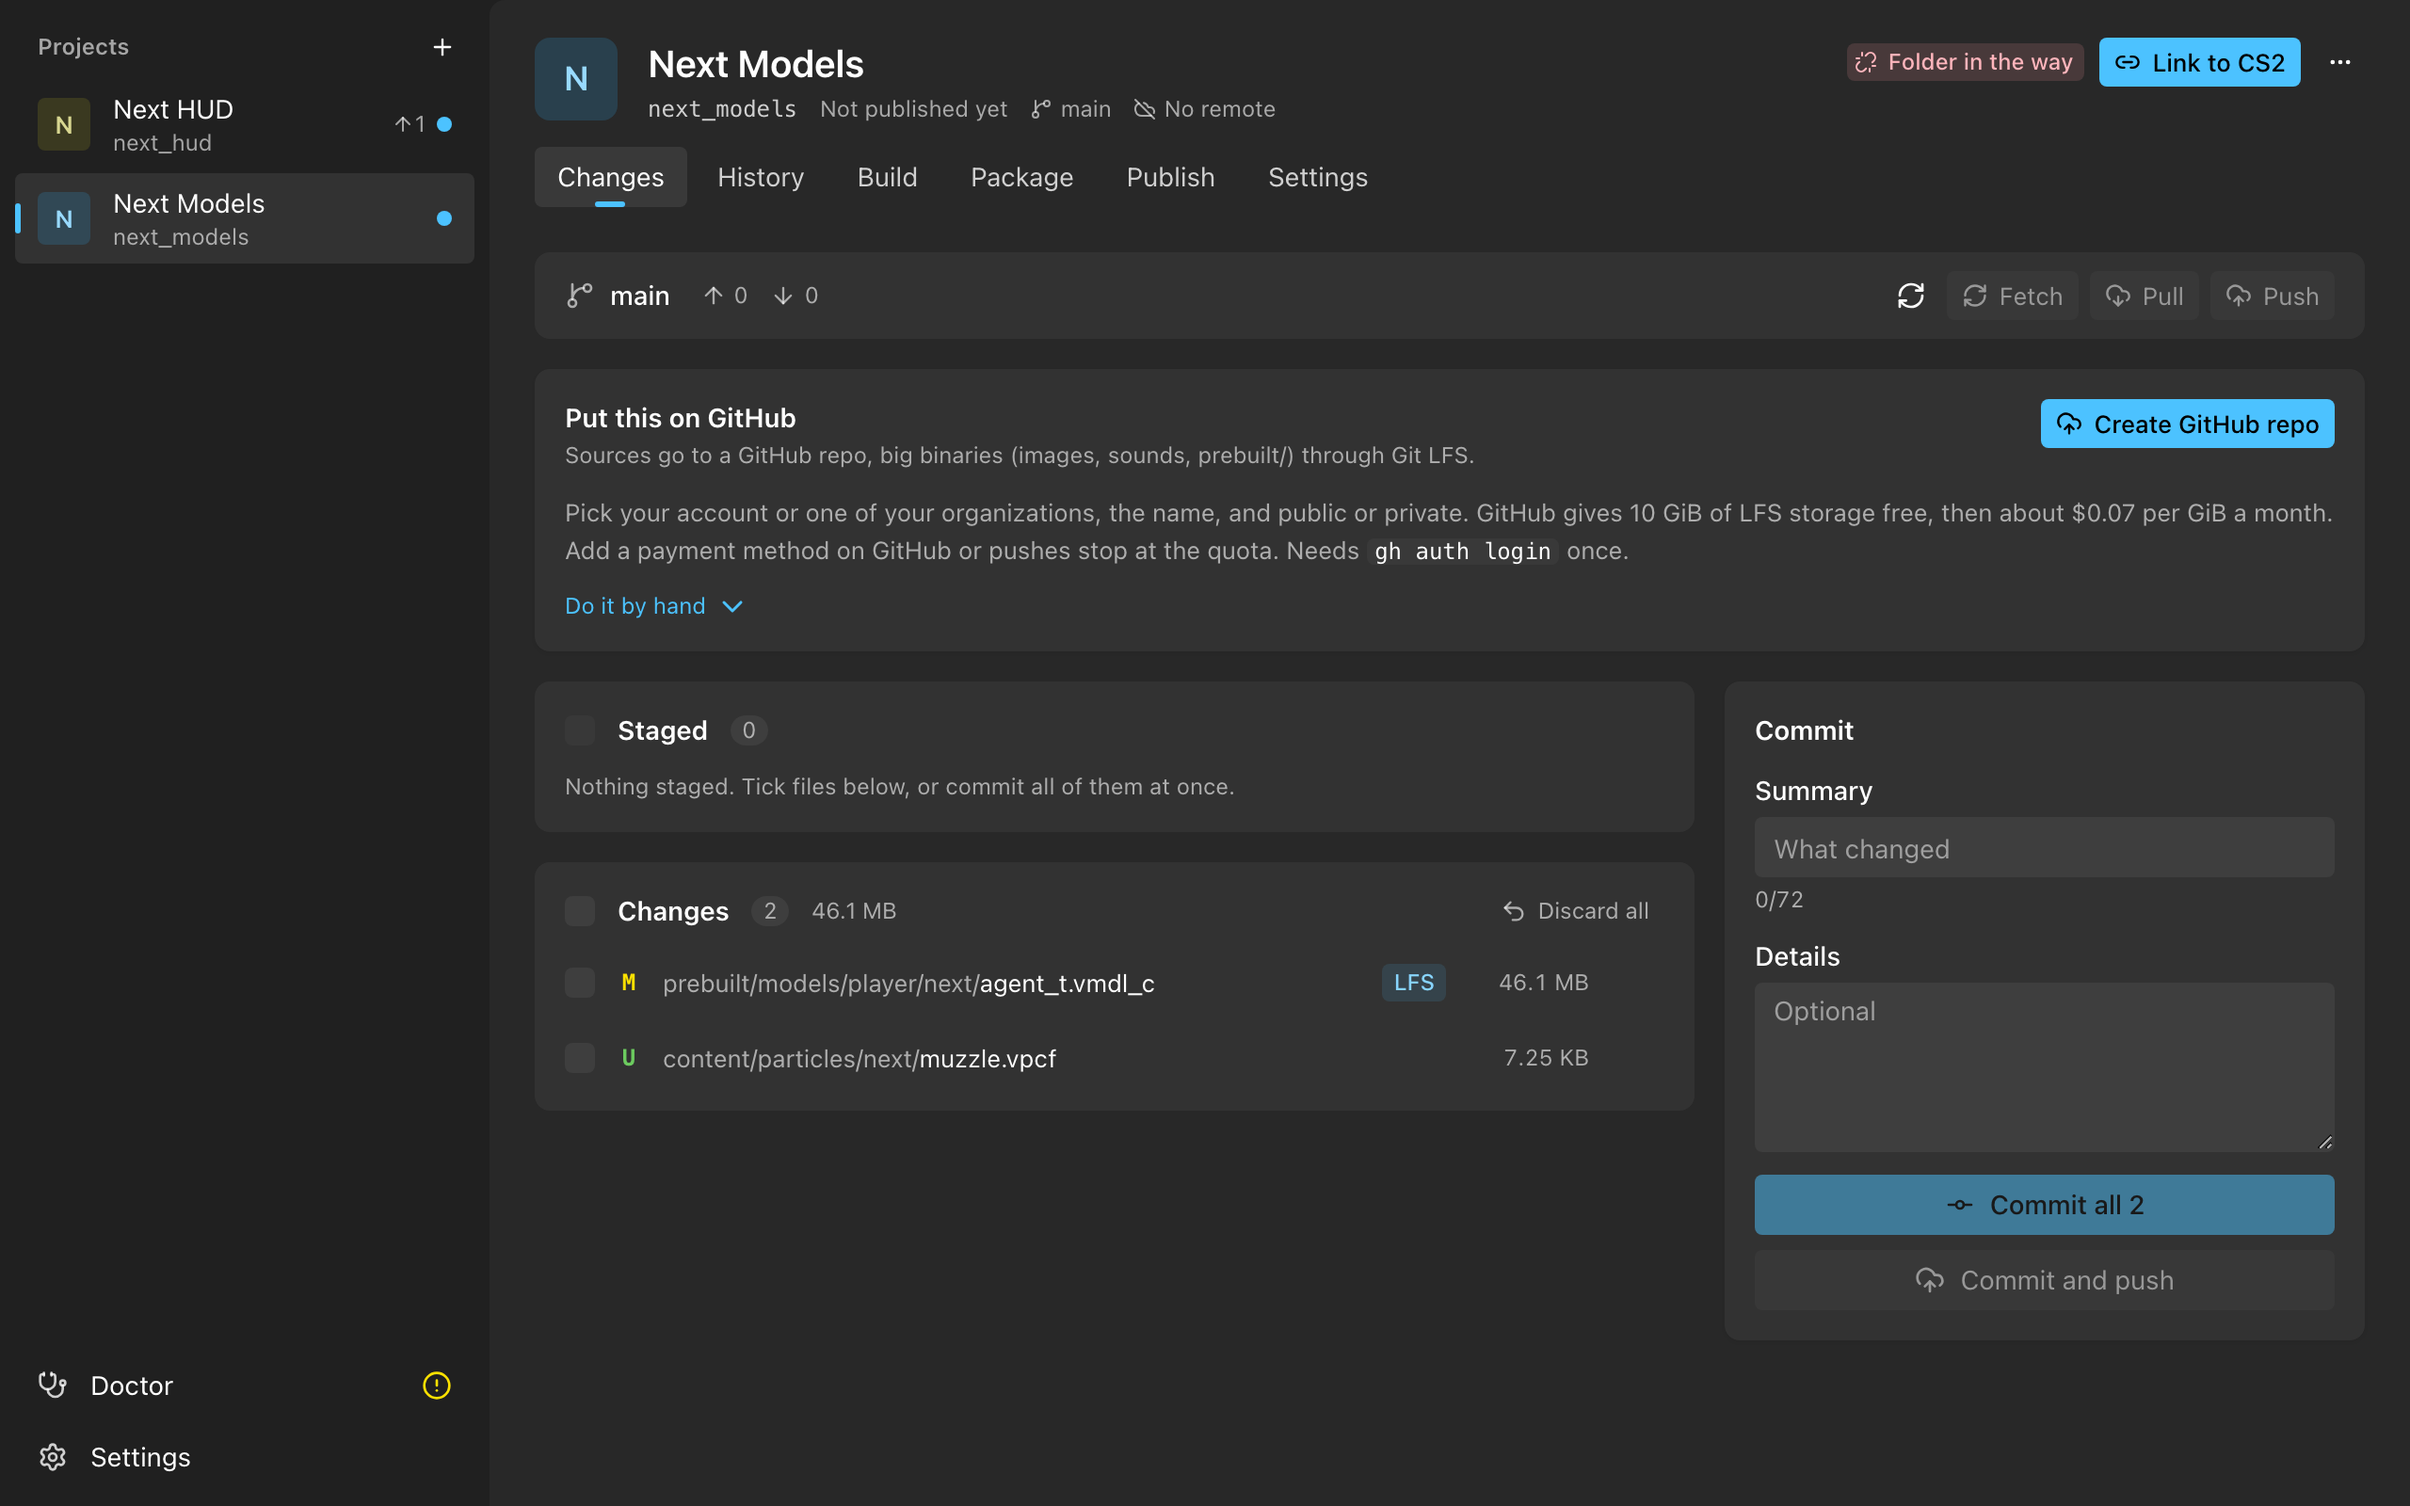
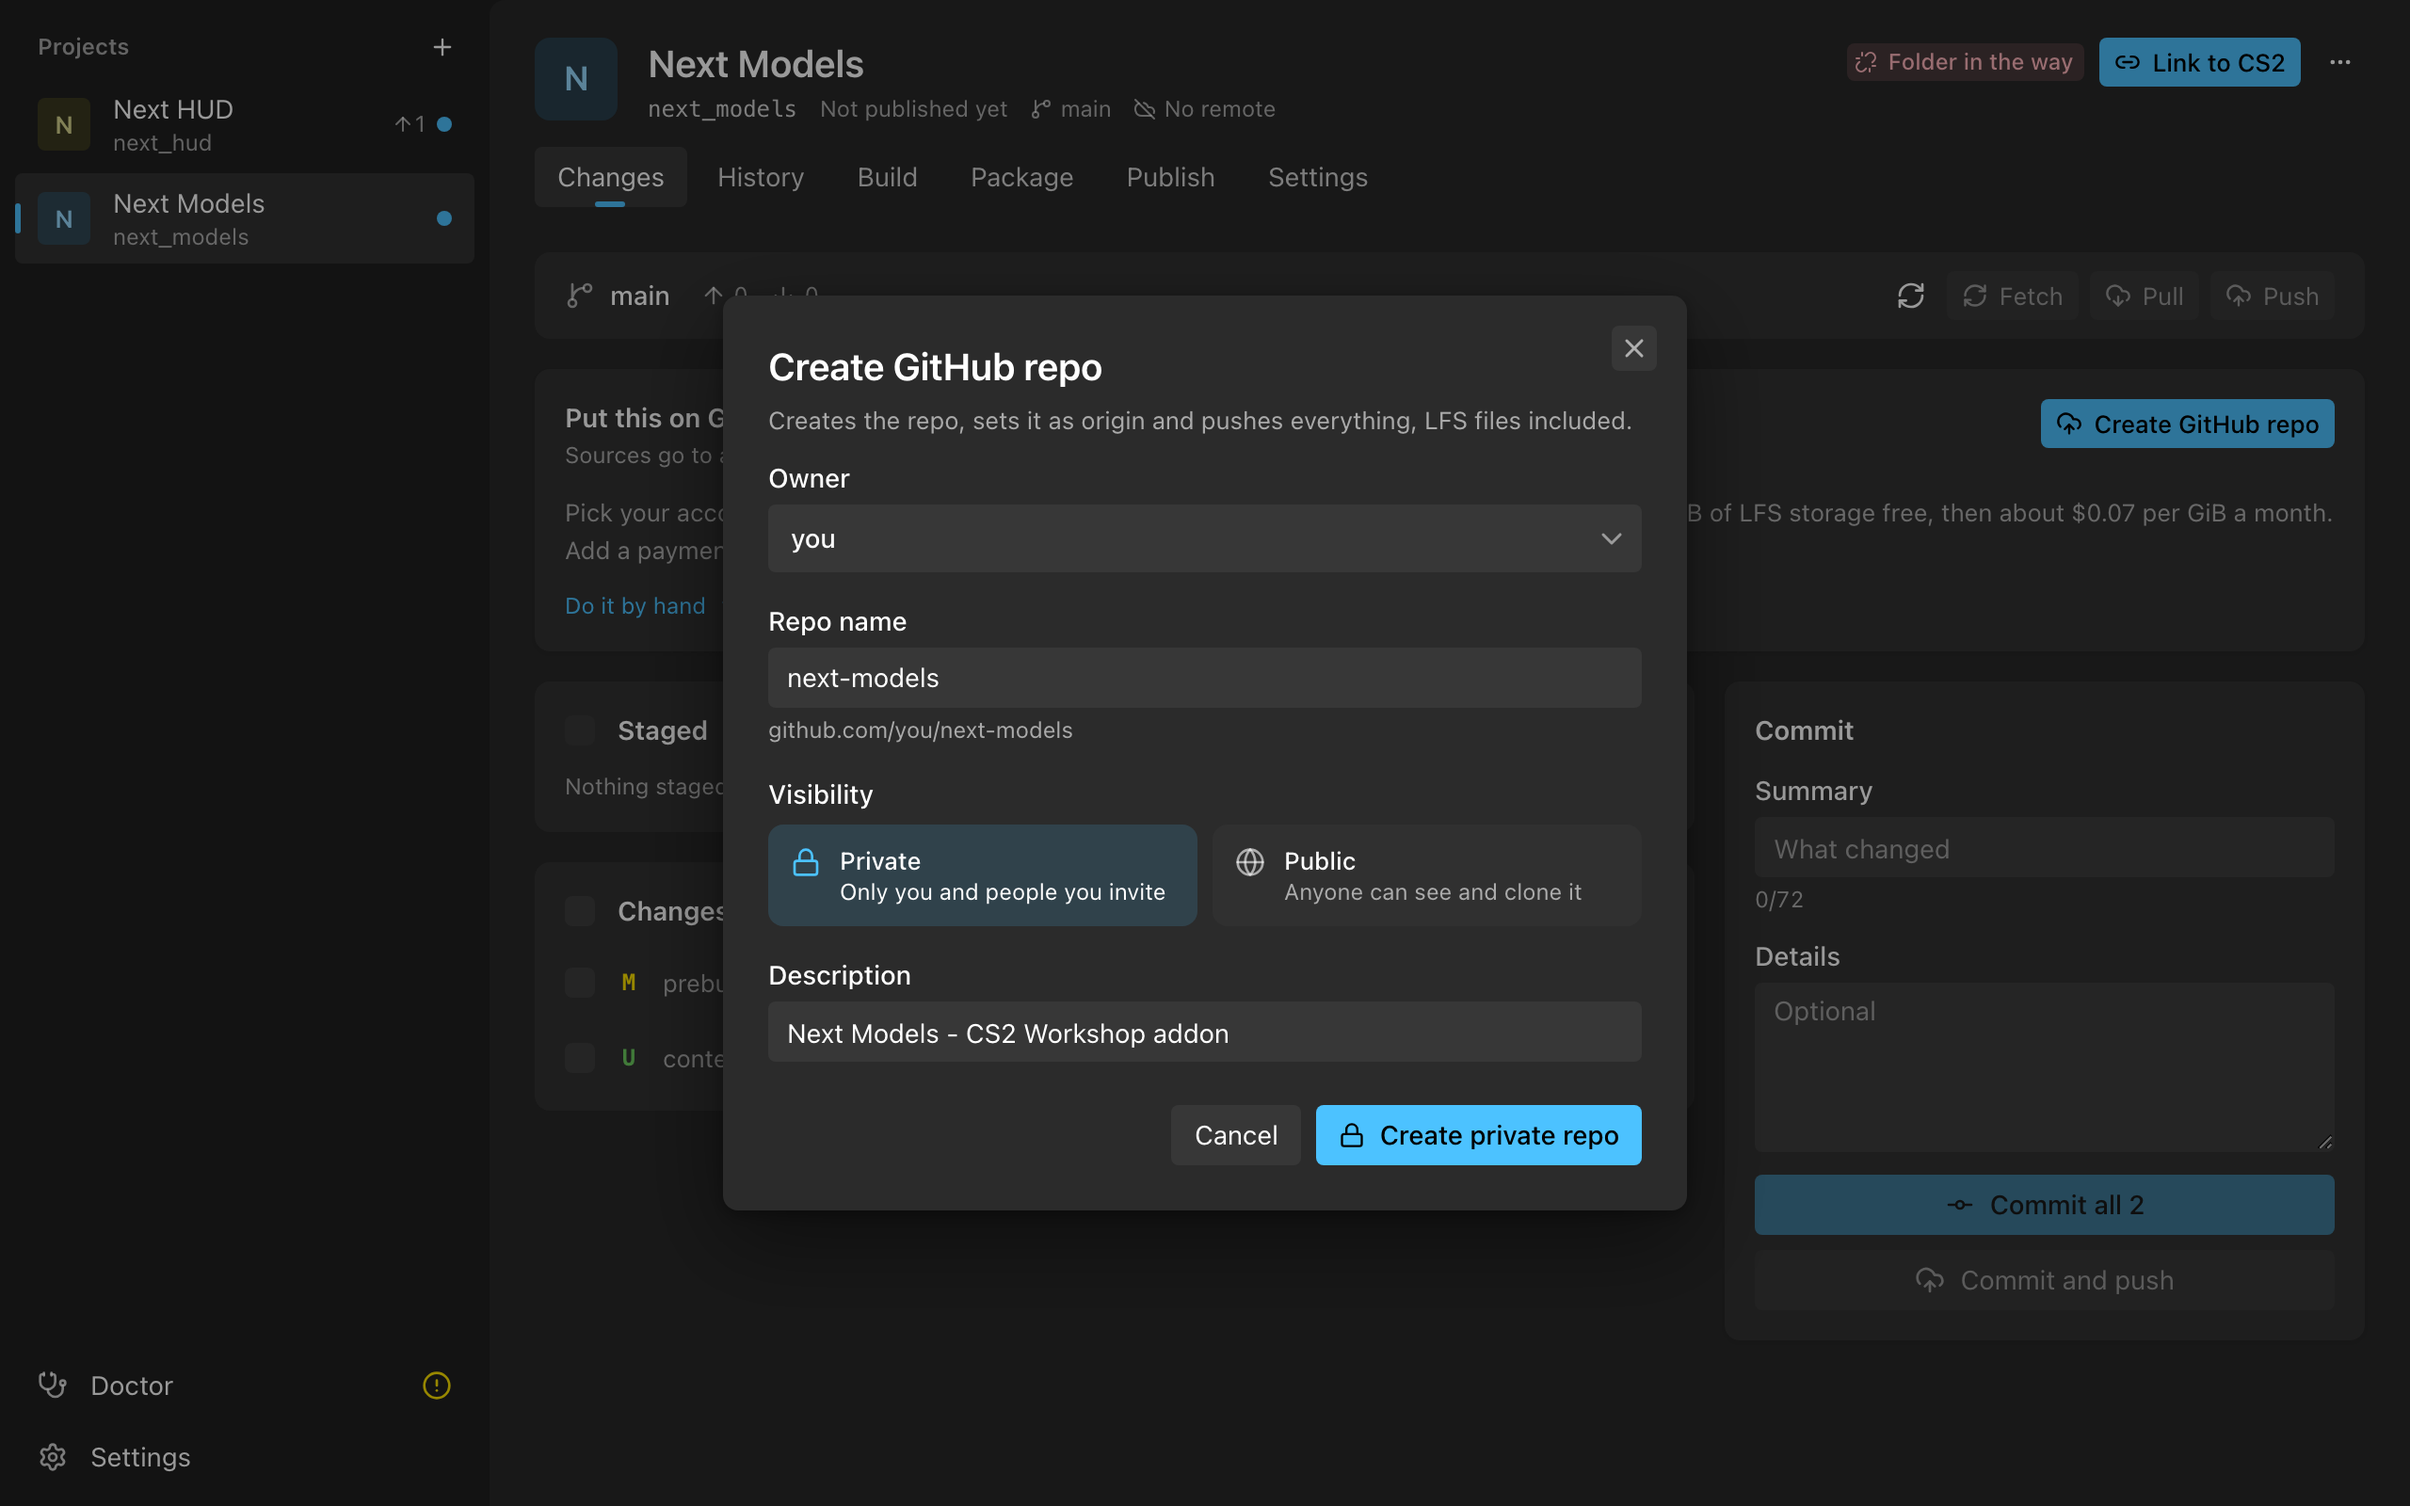
README: GitHub dialog screenshot, a simpler pipeline diagram

diff --git a/README.md b/README.md
@@ -63,17 +63,17 @@ Making a CS2 Workshop addon usually means two folders kept in sync by hand (`con
 
 ```mermaid
 flowchart LR
-  src["content/<br/>your sources, in git"] -->|"resourcecompiler.exe<br/>changed files only"| build["build folder<br/>game/csgo_addons/&lt;addon&gt;"]
-  pre["prebuilt/<br/>compiled files without source"] -->|"copied as is"| build
+  src["content/<br/>your sources, in git"] -->|"resourcecompiler<br/>changed files only"| build["build folder"]
+  pre["prebuilt/<br/>compiled, no source"] -->|"copied as is"| build
   build -->|"pack"| vpk["VPK<br/>100 MB chunks"]
-  vpk -->|"upload through the<br/>running Steam client"| ws["Workshop item"]
-  ws -.->|"deploy tag on the commit"| src
+  vpk -->|"Steam client"| ws["Workshop item"]
 ```
 
-- Your project's `content/` folder is linked into CS2's `content/csgo_addons/<addon>`, so Valve's compiler finds it where it expects it. Your repo can live anywhere.
+- The build folder is CS2's own `game/csgo_addons/<addon>`. Your project's `content/` folder is linked into CS2's `content/csgo_addons/<addon>`, so Valve's compiler finds it where it expects it. Your repo can live anywhere.
 - Models taken from other Workshop items, compiled maps and anything else you only have in compiled form go in `prebuilt/` and are packed as they are.
 - The VPK gets everything in the build folder except Valve's tool cache, junk and raw sources CS2 never loads. Prefer Valve's own whitelist behaviour? Turn on "Valve whitelist only" in the project's settings.
 - Uploads go through the Steam client that is already running and logged in. No passwords or Steam Guard codes go through the app.
+- Every publish tags the commit (`deploy/<time>`, plus `v<version>` when you give one), so History shows what went live.
 
 ## Getting started
 
